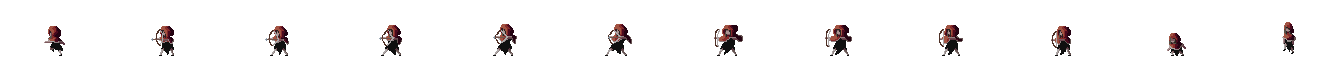
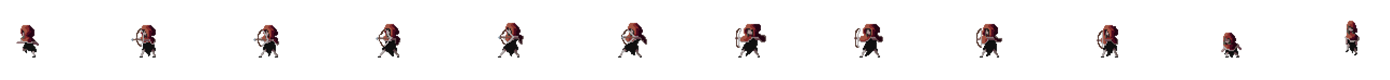
bug fixes, new enemy

diff --git a/data/assets/enemies/Mushroom/mushroom.py b/data/assets/enemies/Mushroom/mushroom.py
@@ -39,7 +39,7 @@ class Mushroom(Enemy):
         elif self.hp <= 0 and self.currentanimation.ended:
             self.core.scene.remove(self)
             if not self.boss and self.transforms:
-                boss = Skeleton(self.core, True)
+                boss = Mushroom(self.core, True)
                 boss.x = self.x
                 boss.y = self.y
                 self.core.scene.add(boss)
@@ -77,7 +77,7 @@ class Mushroom(Enemy):
             self.currentanimation = self.hitLeftAnimation
 
     def initAnimations(self):
-        ss = pygame.image.load("data/assets/enemies/Skeleton/Walk.png")
+        ss = pygame.image.load("data/assets/enemies/Mushroom/Run.png")
         walksprites = [
             ss.subsurface(57, 48, 50, 55),
             ss.subsurface(206, 48, 50, 55),
@@ -86,7 +86,7 @@ class Mushroom(Enemy):
         ]
         self.walkRightAnimation = Animation(walksprites, self)
         self.walkLeftAnimation = Animation(walksprites, self, flipx=True)
-        ss = pygame.image.load("data/assets/enemies/Skeleton/Attack.png")
+        ss = pygame.image.load("data/assets/enemies/Mushroom/Attack.png")
         atksprites = [
             ss.subsurface(57, 48, 50, 55),
             ss.subsurface(206, 48, 50, 55),
@@ -95,7 +95,7 @@ class Mushroom(Enemy):
         ]
         self.attackRightAnimation = Animation(atksprites, self, delay=10)
         self.attackLeftAnimation = Animation(atksprites, self, delay=10, flipx=True)
-        ss = pygame.image.load("data/assets/enemies/Skeleton/Death.png")
+        ss = pygame.image.load("data/assets/enemies/Mushroom/Death.png")
         diesprites = [
             ss.subsurface(57, 48, 50, 55),
             ss.subsurface(206, 48, 50, 55),
@@ -104,7 +104,7 @@ class Mushroom(Enemy):
         ]
         self.dieRightAnimation = Animation(diesprites, self, delay=10)
         self.dieLeftAnimation = Animation(diesprites, self, delay=10, flipx=True)
-        ss = pygame.image.load("data/assets/enemies/Skeleton/Take Hit.png")
+        ss = pygame.image.load("data/assets/enemies/Mushroom/Take Hit.png")
         hitsprites = [
             ss.subsurface(57, 48, 50, 55),
             ss.subsurface(206, 48, 50, 55),

diff --git a/lib/player.py b/lib/player.py
@@ -3,6 +3,7 @@ from lib.animation import Animation
 from lib.collider import Collider
 from lib.healthbar import HealthBar
 from lib.projectile import Projectile
+from lib.text import Text
 
 class Player:
     def __init__(self, core):
@@ -29,10 +30,20 @@ class Player:
         self.collider = Collider(self, debug=False)
 
     def loop(self):
+        if self.checkDead():
+            return
         self.checkInput()
         self.collider.update()
         self.currentanimation.play()
         self.healthbar.loop()
+
+    def checkDead(self):
+        if self.hp <= 0:
+            text = Text("You didn't make it to grandma's house.", "helvetica", 36, [255, 0, 0])
+            self.core.scene.add(text)
+            return True
+        else:
+            return False
 
     def checkInput(self):
         self.checkAttack()
@@ -179,9 +190,9 @@ class Player:
         self.jumpLeftAnimation = Animation(jumpsprites, self, delay=2, flipx=True)
         ss = pygame.image.load("data/assets/player/shoot sheet.png").convert_alpha()
         shootsprites = []
-        for x in range(36):
-            shootsprites.append(ss.subsurface(((37 * x), 20, 37, spritesize)))
-        shootsprites = shootsprites
+        for x in range(24):
+            shootsprites.append(ss.subsurface(((spritesize * x) + 10, 20, spritesize, spritesize)))
+        shootsprites = shootsprites[::2]
         self.shootLeftAnimation = Animation(shootsprites, self, delay=2)
         self.shootRightAnimation = Animation(shootsprites, self, delay=2, flipx=True)
 

diff --git a/data/scenes/church/church.py b/data/scenes/church/church.py
@@ -1,4 +1,4 @@
-from data.assets.enemies.Skeleton.skeleton import Skeleton
+from data.assets.enemies.Mushroom.mushroom import Mushroom
 from data.scenes.industrial.industrial import Industrial
 from lib.background import Background
 from lib.collidable import Collidable
@@ -28,7 +28,7 @@ class Church(Scene):
         numskellys = 0
         for layer in self.layers:
             for obj in layer:
-                if isinstance(obj, Skeleton):
+                if isinstance(obj, Mushroom):
                     numskellys += 1 
         if numskellys < 1 and self.core.player.x > pygame.display.get_surface().get_width():
             self.core.scene = Industrial(self.core)
@@ -45,11 +45,11 @@ class Church(Scene):
 
     def initEnemy(self):
         for x in range(1, 3):
-            enemy = Skeleton(self.core)
+            enemy = Mushroom(self.core)
             if x == 2:
                 enemy.transforms = True
-                enemy.x = 500 * x
-                enemy.y = 600
+            enemy.x = 500 * x
+            enemy.y = 600
             self.add(enemy)
 
     def initBackgrounds(self):

diff --git a/lib/text.py b/lib/text.py
@@ -1,0 +1,15 @@
+import pygame
+
+class Text:
+
+    def __init__(self, text, font, fontsize, color):
+        self.text = text
+        self.font = pygame.font.SysFont(font, fontsize)
+        self.color = color
+
+    def loop(self):
+        screen = pygame.display.get_surface()
+        surf = self.font.render(self.text, antialias=True, color=self.color)
+        xpos = (screen.get_width() / 2) - (surf.get_width() / 2)
+        ypos = (screen.get_height() / 2) - (surf.get_height() / 2)
+        screen.blit(surf, (xpos, ypos))

diff --git a/data/scenes/industrial/industrial.py b/data/scenes/industrial/industrial.py
@@ -43,12 +43,12 @@ class Industrial(Scene):
         pass
 
     def initEnemy(self):
-        for x in range(1, 3):
+        for x in range(1, 6):
             enemy = Goblin(self.core)
             if x == 2:
                 enemy.transforms = True
-                enemy.x = 500 * x
-                enemy.y = 600
+            enemy.x = 400 + (x * 50)
+            enemy.y = 600
             self.add(enemy)
 
     def initBackgrounds(self):

diff --git a/data/scenes/mountains/mountains.py b/data/scenes/mountains/mountains.py
@@ -48,8 +48,8 @@ class Mountains(Scene):
             enemy = FlyingEye(self.core)
             if x == 2:
                 enemy.transforms = True
-                enemy.x = 500 * x
-                enemy.y = 600
+            enemy.x = 500 * x
+            enemy.y = 600
             self.add(enemy)
 
     def initBackgrounds(self):

diff --git a/data/scenes/pit/pit.py b/data/scenes/pit/pit.py
@@ -48,8 +48,8 @@ class Pit(Scene):
             enemy = Skeleton(self.core)
             if x == 2:
                 enemy.transforms = True
-                enemy.x = 500 * x
-                enemy.y = 600
+            enemy.x = 500 + (x * 50)
+            enemy.y = 600
             self.add(enemy)
 
     def initBackgrounds(self):
